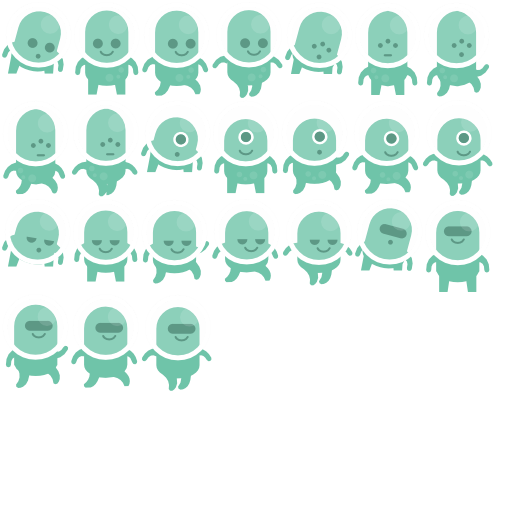
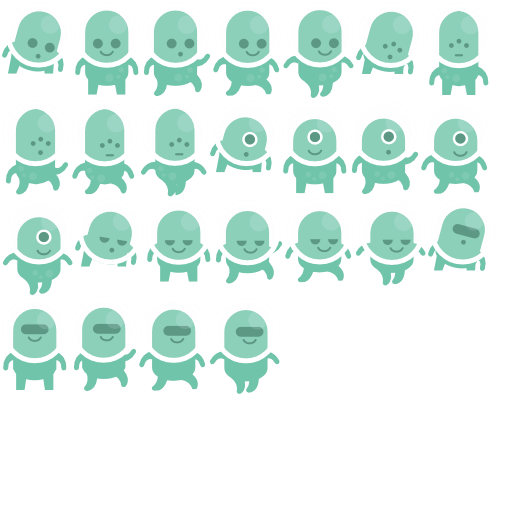
updated alien spritesheet, fixes missing 1_jump

diff --git a/js/JumpSlide.js b/js/JumpSlide.js
@@ -28,6 +28,7 @@ JumpSlide.SETTINGS = { // default settings
     right : 700 // click area, right
   },
   jump_velocity : 15,
+  character_graphic : 1, // valid range 1-5
   debug : false
 };
 JumpSlide.stage = new PIXI.Stage(JumpSlide.SETTINGS.background_color);
@@ -190,7 +191,6 @@ JumpSlide.removeSprite = function ( sprite ) {
     // create an array to store the alien textures
     var alienTextures = {};
     
-    var alienNumber = 2;
     var frames = {
       idle : "idle",
       duck : "duck",
@@ -200,7 +200,7 @@ JumpSlide.removeSprite = function ( sprite ) {
     }
     for (var frame in frames) 
     {
-      var texture = PIXI.Texture.fromFrame("1_green" + alienNumber + "_" + frame + ".png");
+      var texture = PIXI.Texture.fromFrame("1_green" + JumpSlide.SETTINGS.character_graphic + "_" + frame + ".png");
       alienTextures[frame] = texture;
     };
     
